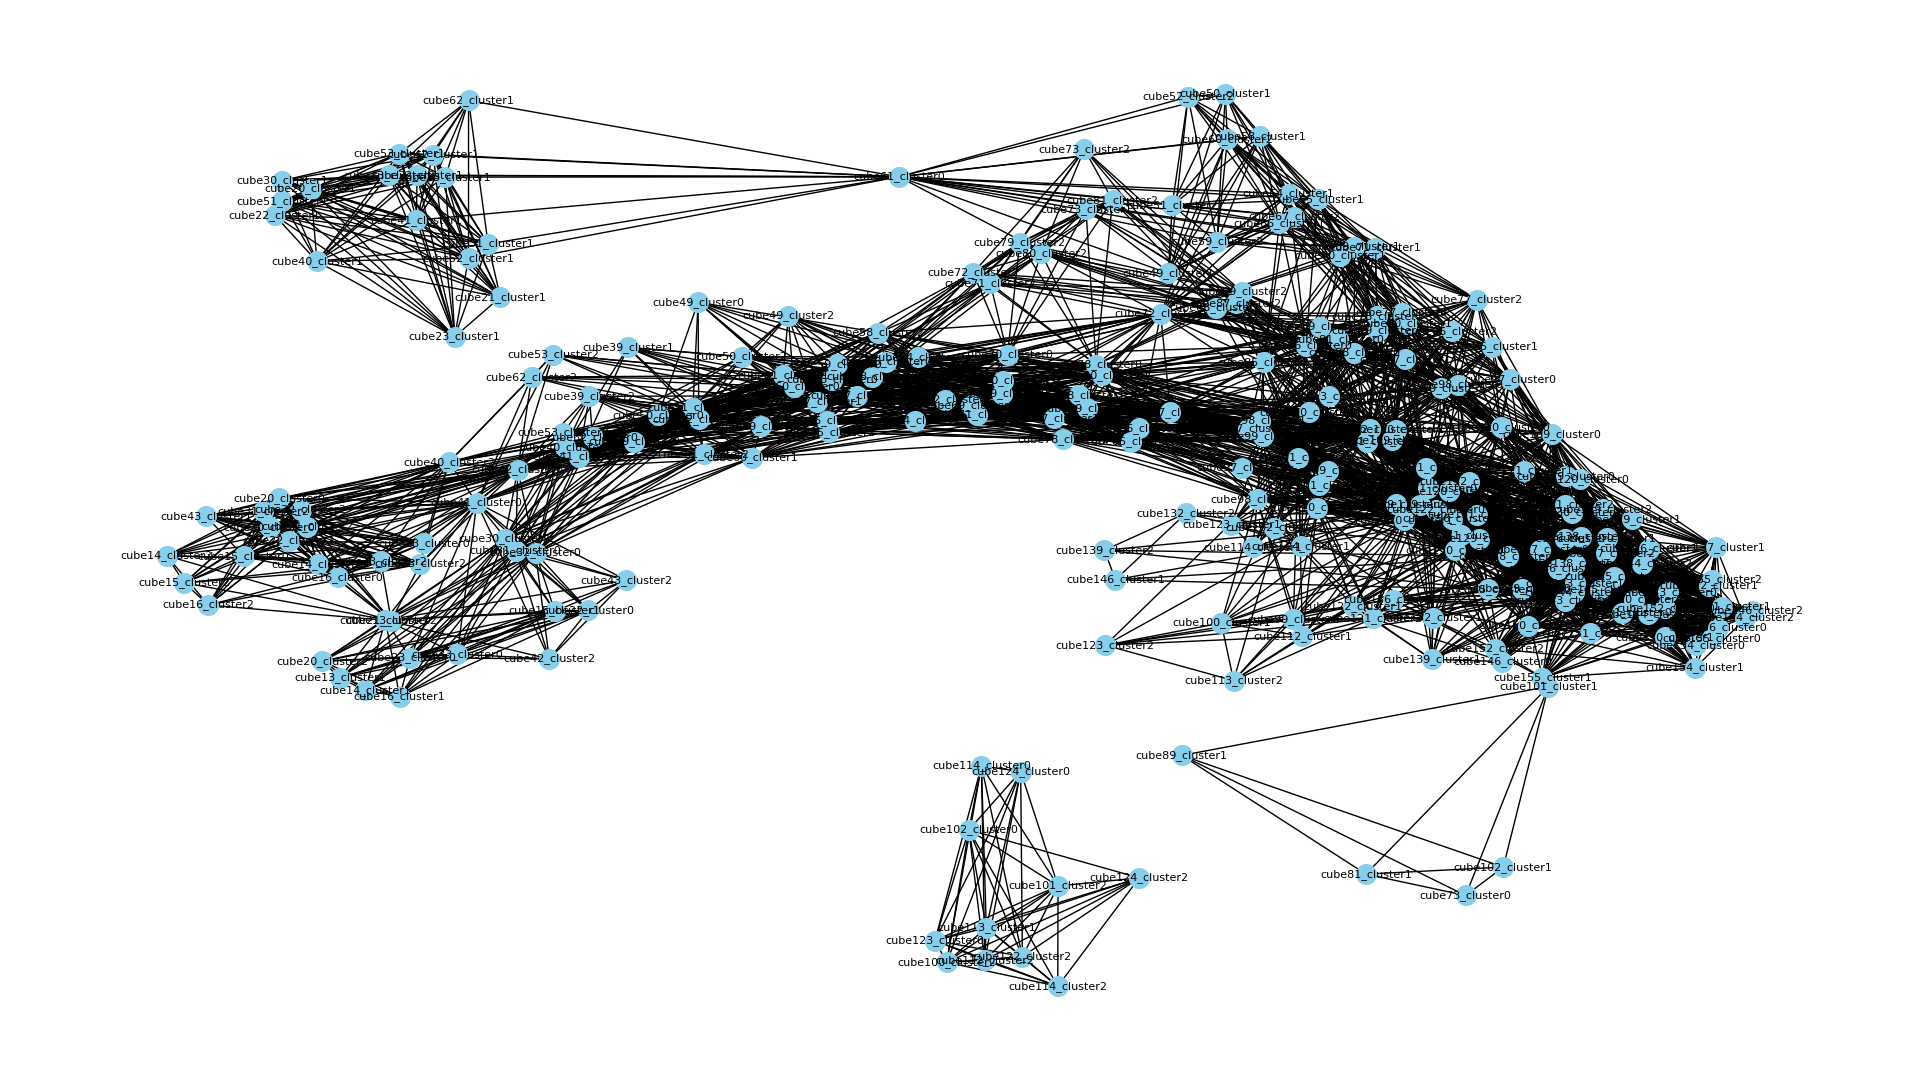
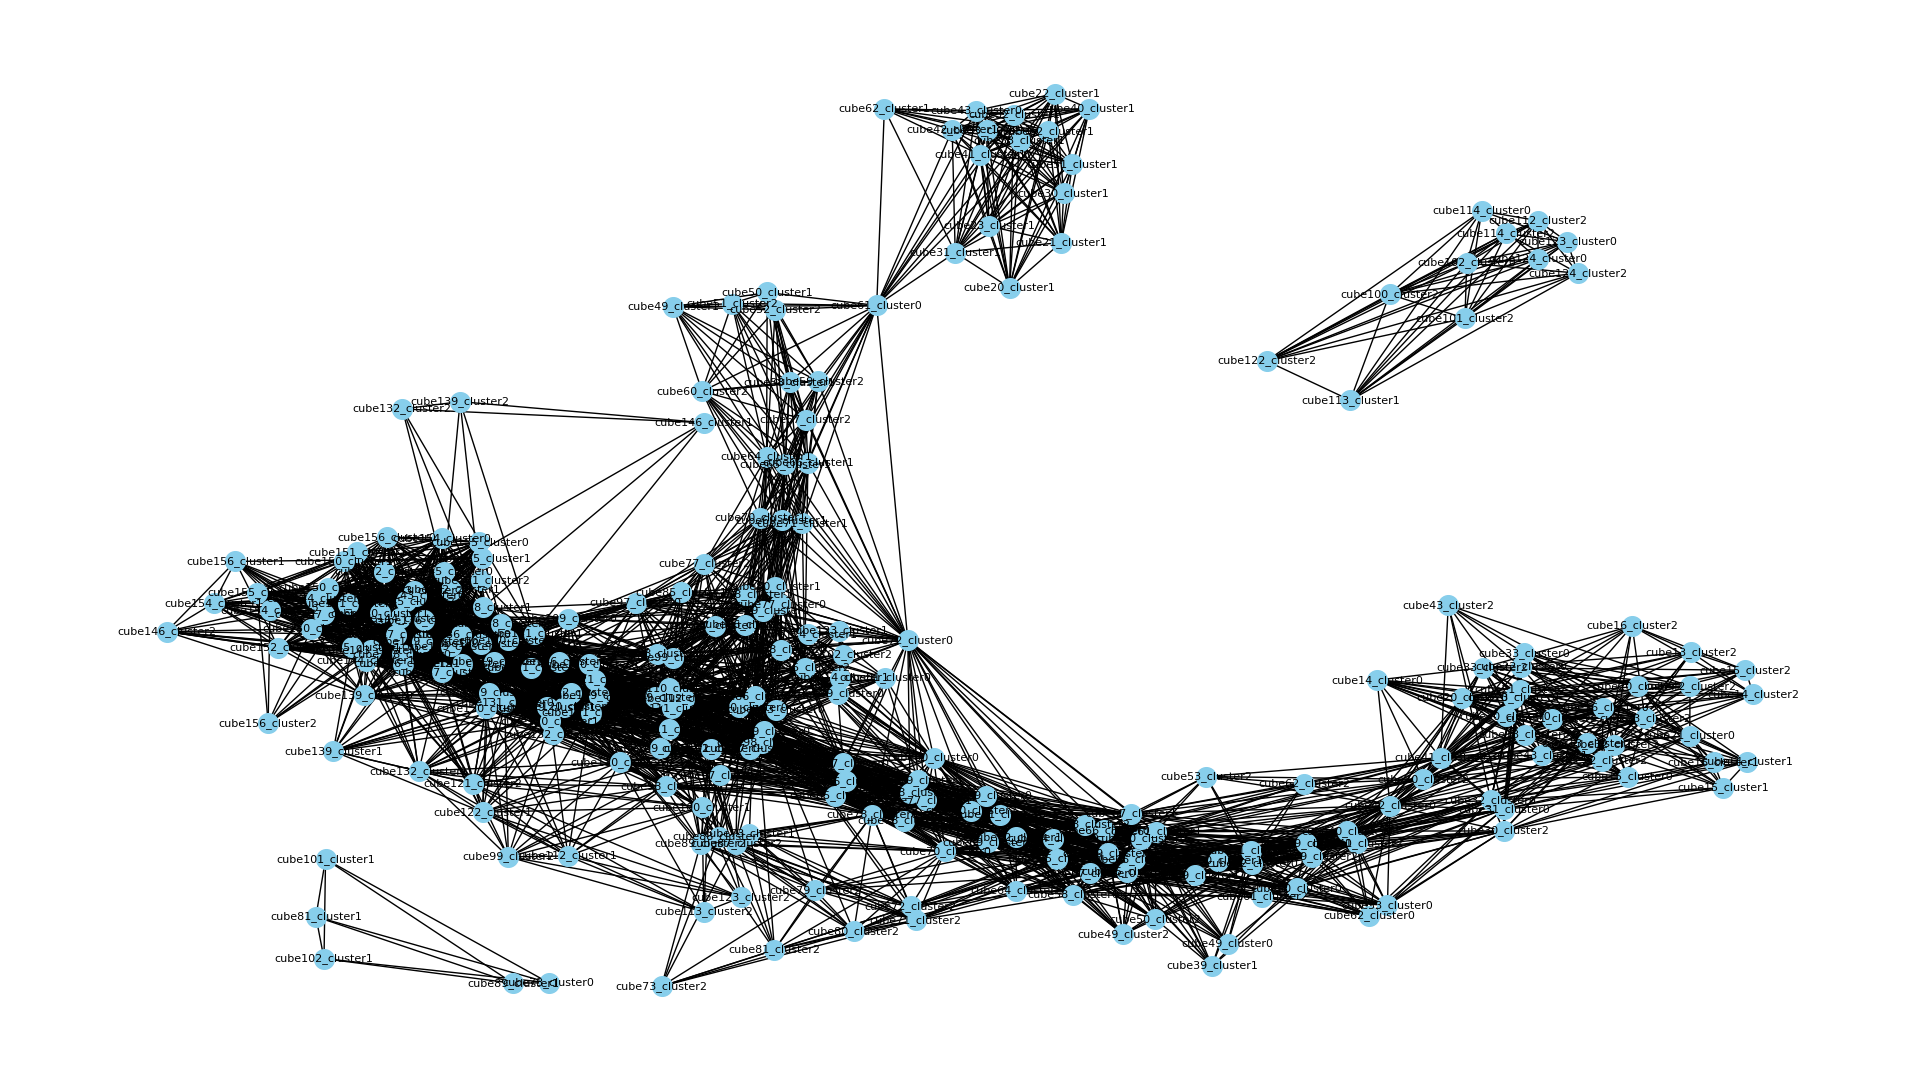
Added variable node size

diff --git a/cytoscape_visualization_advanced.py b/cytoscape_visualization_advanced.py
@@ -1,0 +1,120 @@
+import pandas as pd
+import networkx as nx
+import csv
+from dash import html, dcc, Dash, Input, Output, dash_table
+import dash_cytoscape as cyto
+import math
+
+# Загрузка данных
+nodes_data_path = 'nodes_to_rows.csv'
+nodes_data = pd.read_csv(nodes_data_path)
+
+dataset_path = 'db_nl_preprocessed.csv'
+original_dataset = pd.read_csv(dataset_path)
+
+G_nx = nx.Graph()
+with open('mapper_graph_adjacency_list.csv', 'r') as file:
+    reader = csv.reader(file)
+    next(reader, None)  # Пропустить заголовок
+    for row in reader:
+        G_nx.add_edge(row[0], row[1])
+
+# Расчет логарифмического размера каждой узлы на основе данных
+node_sizes = {}
+for index, row in nodes_data.iterrows():
+    node_id = row['node_id']
+    row_indices = row['row_indices']
+    count = len(set(map(int, row_indices.split(','))))
+    node_sizes[node_id] = count
+
+# Минимальный и максимальный размеры узлов
+min_size = 2  # Минимальный размер узла
+max_size = 9  # Максимальный размер узла
+
+# Находим минимальное и максимальное значение для корректного масштабирования
+min_count = min(node_sizes.values()) if node_sizes else 1
+max_count = max(node_sizes.values()) if node_sizes else 1
+
+# Нормализация размеров с использованием логарифмической шкалы
+normalized_sizes = {}
+for node, count in node_sizes.items():
+    if count > 1:
+        # Применяем логарифмическое масштабирование
+        log_size = math.log(count, max_count)  # База логарифма — максимальное значение count
+        normalized_size = min_size + (max_size - min_size) * (log_size / math.log(max_count, max_count))
+    else:
+        normalized_size = min_size
+    normalized_sizes[node] = normalized_size
+
+# Обновляем стиль узлов
+elements = [
+    {'data': {'id': node, 'label': node}, 'style': {'width': normalized_sizes[node], 'height': normalized_sizes[node]}}
+    for node in G_nx.nodes()
+] + [
+    {'data': {'source': edge[0], 'target': edge[1]}}
+    for edge in G_nx.edges()
+]
+
+stylesheet = [
+    {
+        'selector': 'node',
+        'style': {
+            'background-color': 'gray',
+            'label': 'data(label)',
+            'font-size': '1px',
+        }
+    },
+    {
+        'selector': 'node:selected',
+        'style': {'background-color': 'red'}
+    },
+    {
+        'selector': 'edge',
+        'style': {
+            'line-color': 'light-gray',
+            'width': 0.1
+        }
+    }
+]
+
+app = Dash(__name__)
+app.layout = html.Div([
+    cyto.Cytoscape(
+        id='cytoscape-graph',
+        elements=elements,
+        stylesheet=stylesheet,
+        layout={'name': 'cose'},
+        style={'width': '100%', 'height': '900px'},
+        boxSelectionEnabled=True
+    ),
+    html.Div(id='selected-node-data', style={'padding-top': '20px'})
+])
+
+@app.callback(
+    Output('selected-node-data', 'children'),
+    [Input('cytoscape-graph', 'selectedNodeData')]
+)
+def update_output(data):
+    if not data:
+        return "No nodes selected"
+    else:
+        node_ids = [node['id'] for node in data]
+        all_rows_list = []
+        for node_id in node_ids:
+            rows_str = nodes_data.loc[nodes_data['node_id'] == node_id, 'row_indices'].values[0]
+            rows_list = list(map(int, rows_str.split(',')))
+            all_rows_list.extend(rows_list)
+
+        unique_rows_list = list(set(all_rows_list))
+        selected_rows = original_dataset.iloc[unique_rows_list]
+
+        return dash_table.DataTable(
+            data=selected_rows.to_dict('records'),
+            columns=[{"name": i, "id": i} for i in selected_rows.columns],
+            page_size=10,  # Pagination
+            style_table={'height': '400px', 'overflowY': 'auto'},
+            fixed_rows={'headers': True, 'data': 0}
+        )
+
+if __name__ == '__main__':
+    app.run_server(debug=True, port=8050)
